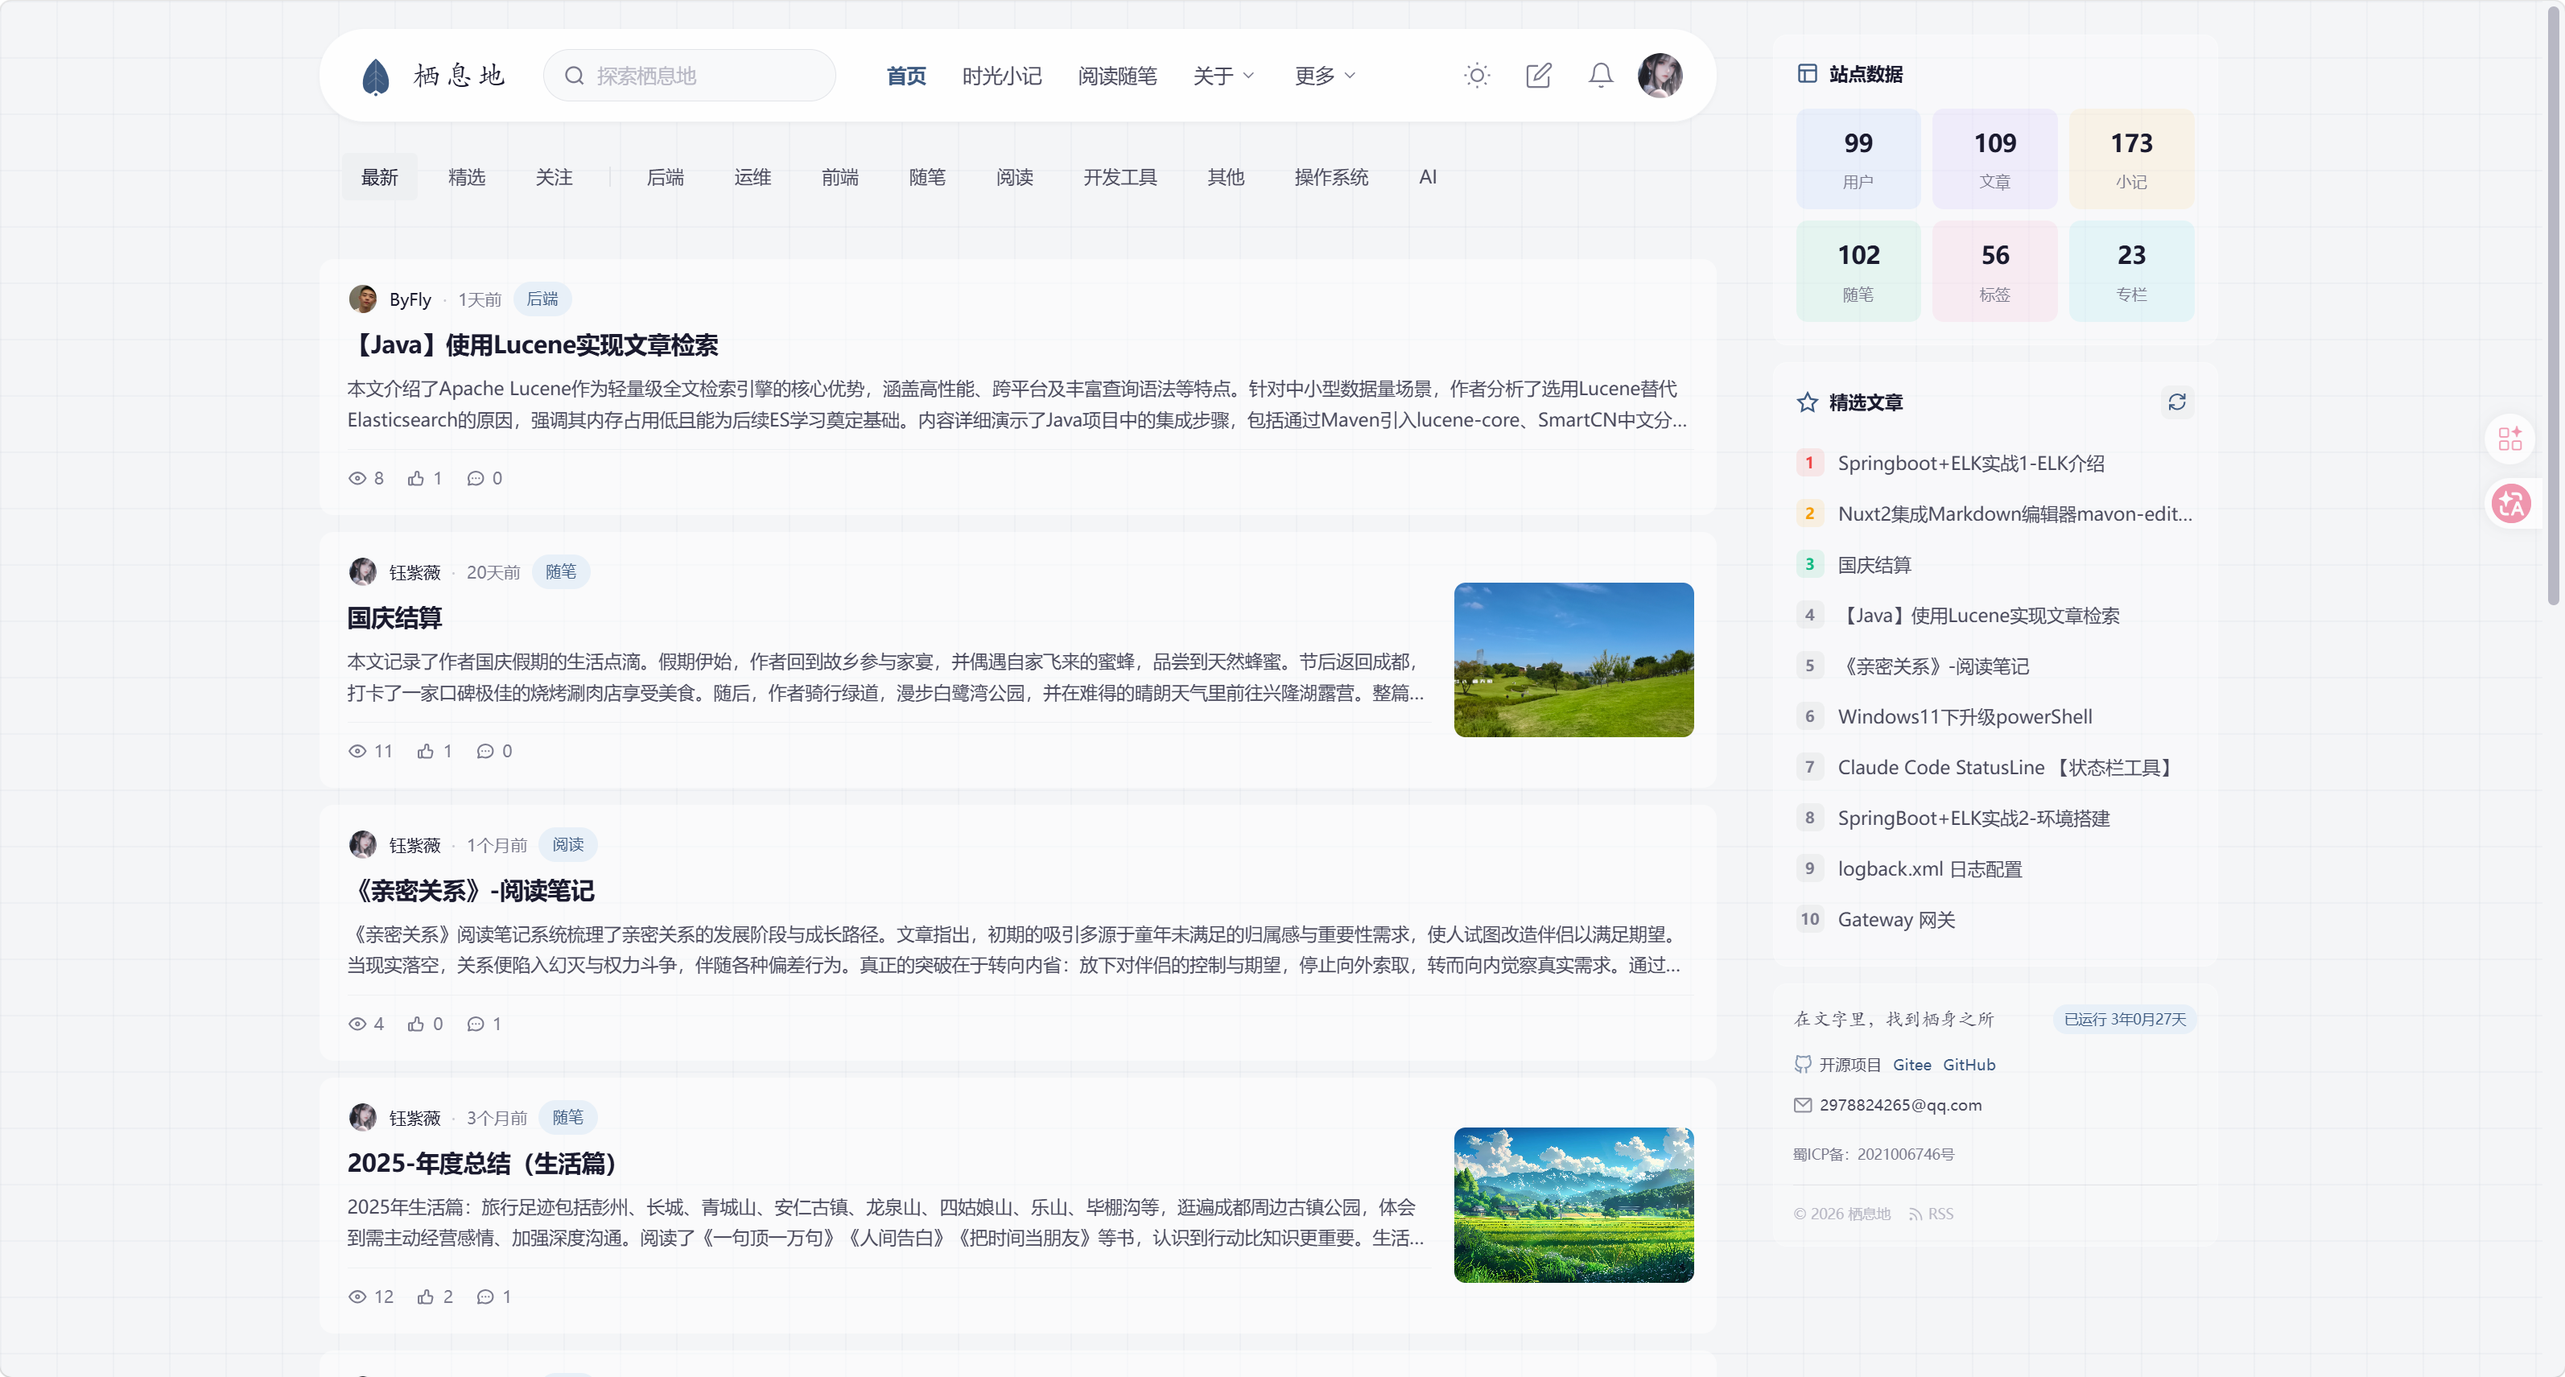
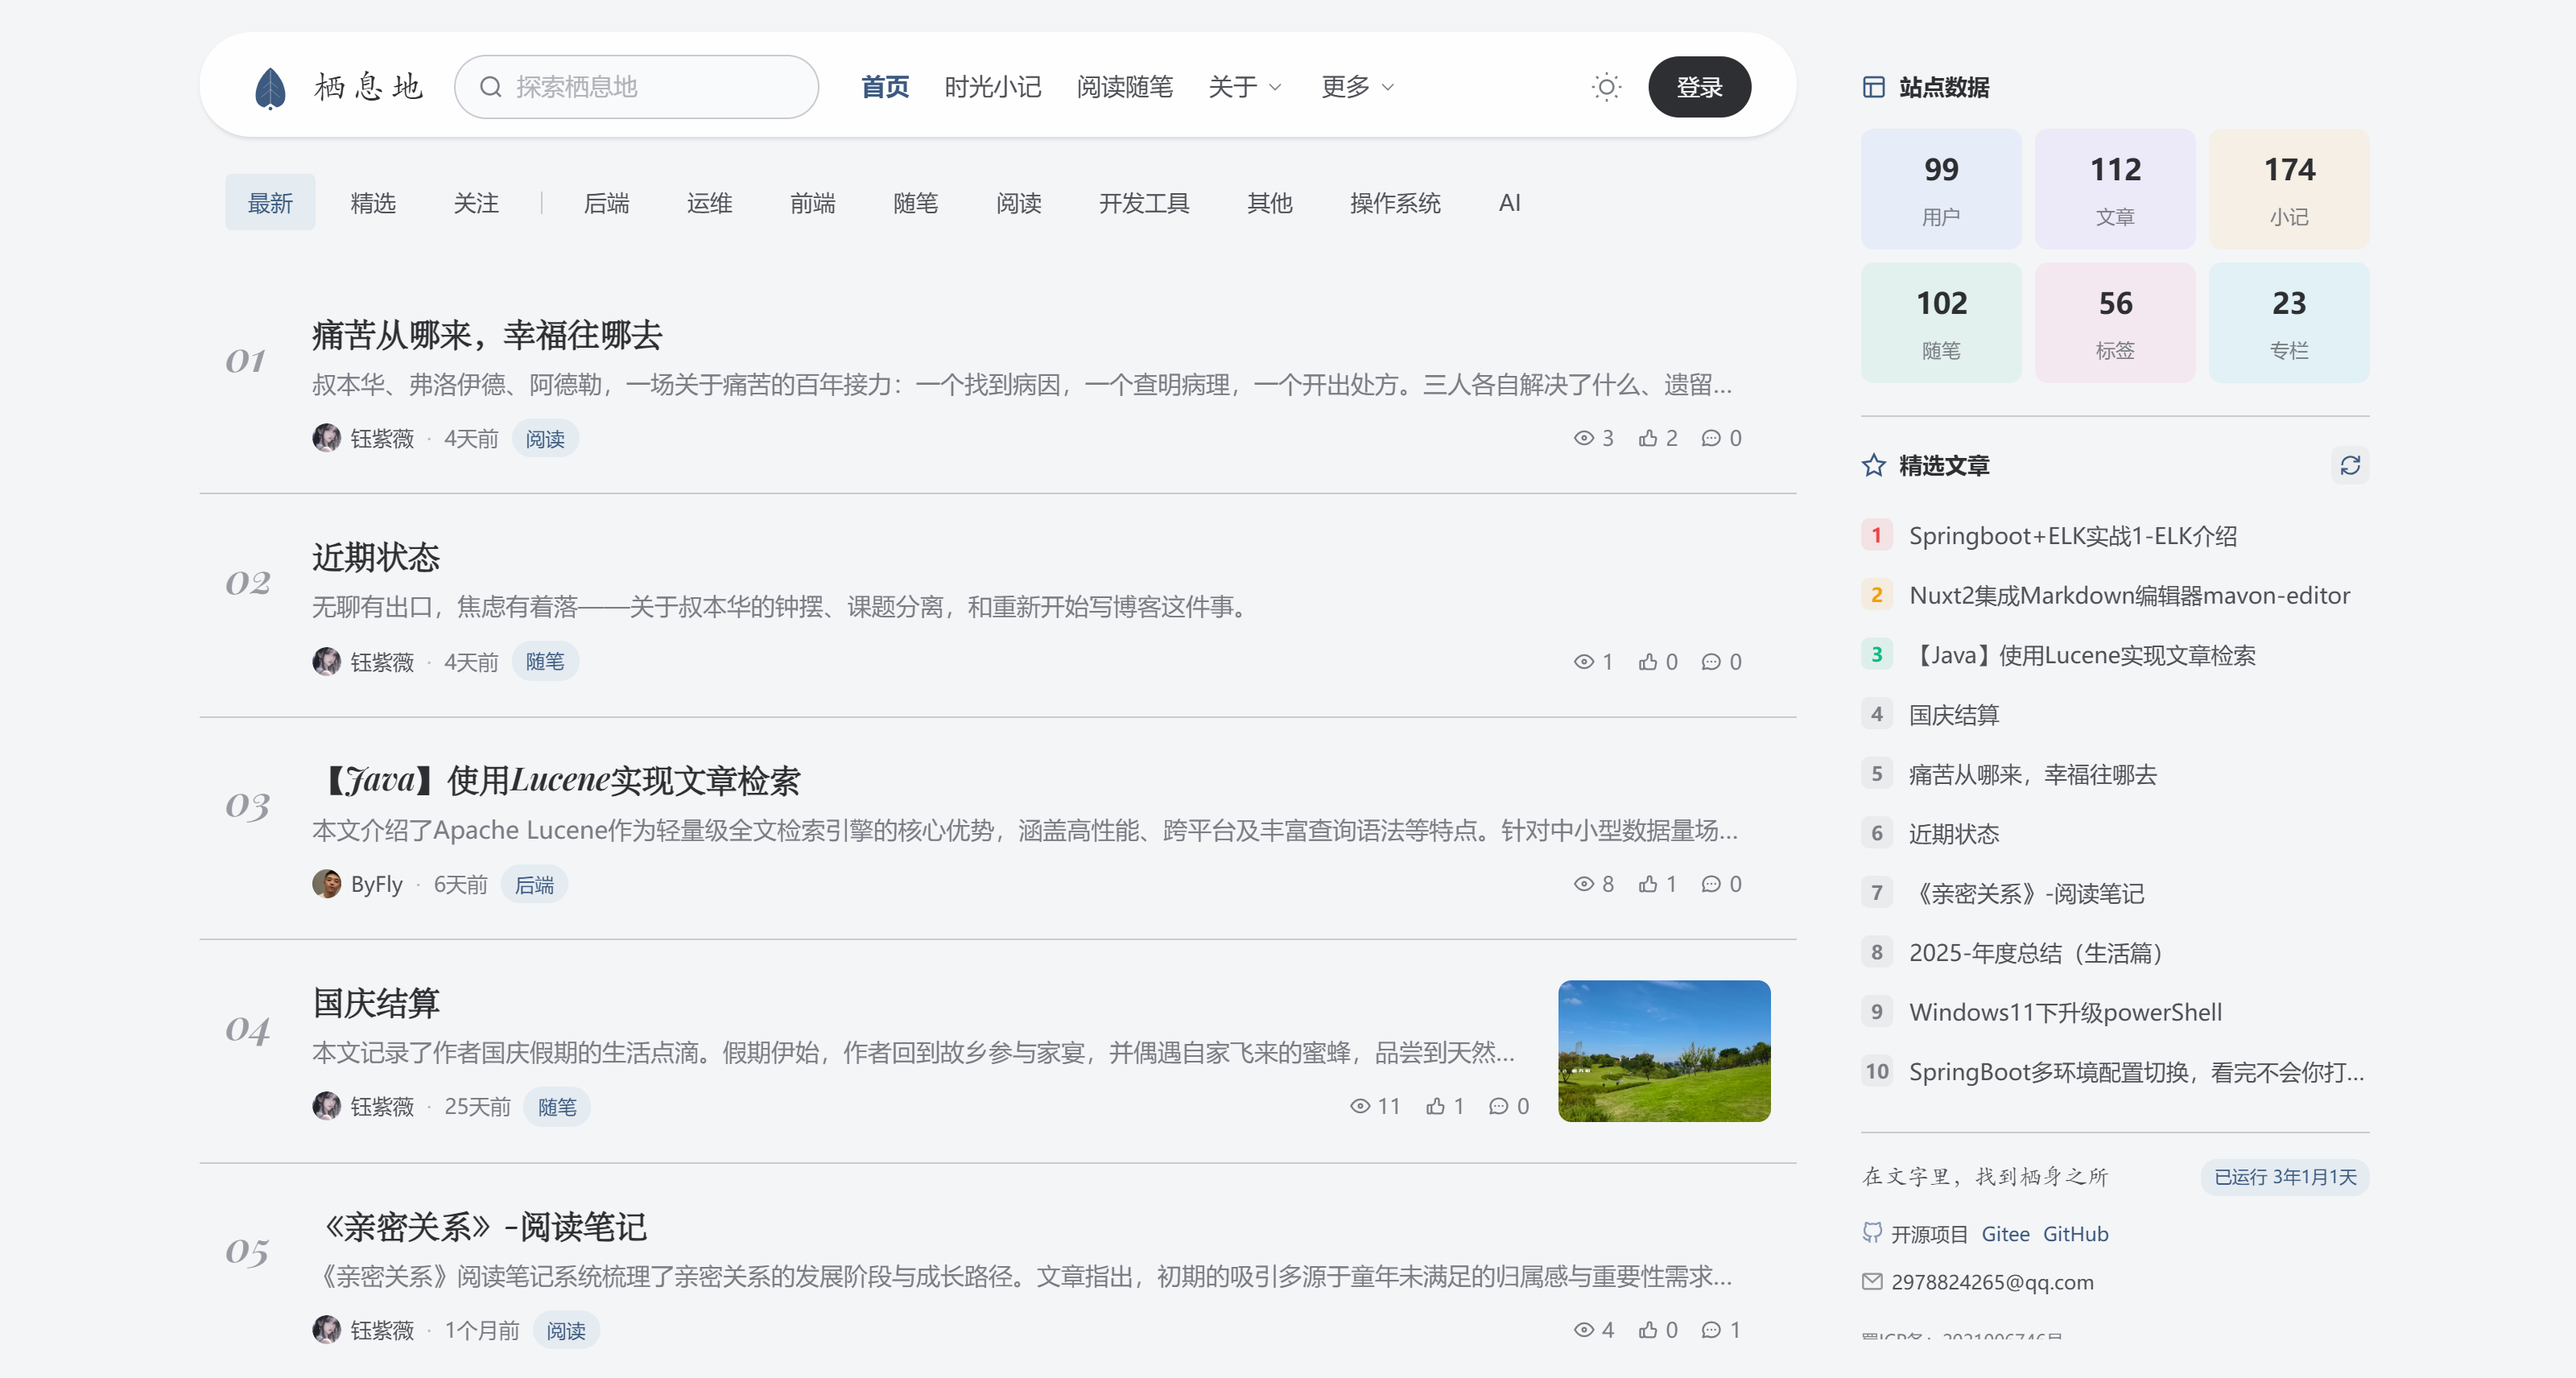
docs: README 前台预览换线上新版截图（一张纸 UI 8 张，统一 3200x1712 规格）

diff --git a/README.md b/README.md
@@ -141,7 +141,7 @@ qixidi/
 <table>
 <tr>
 <td><img src="img/前台/首页.png" alt="首页" /></td>
-<td><img src="img/前台/文章详情页.png" alt="文章详情页" /></td>
+<td><img src="img/前台/文章详情.png" alt="文章详情" /></td>
 </tr>
 <tr>
 <td align="center">首页</td>
